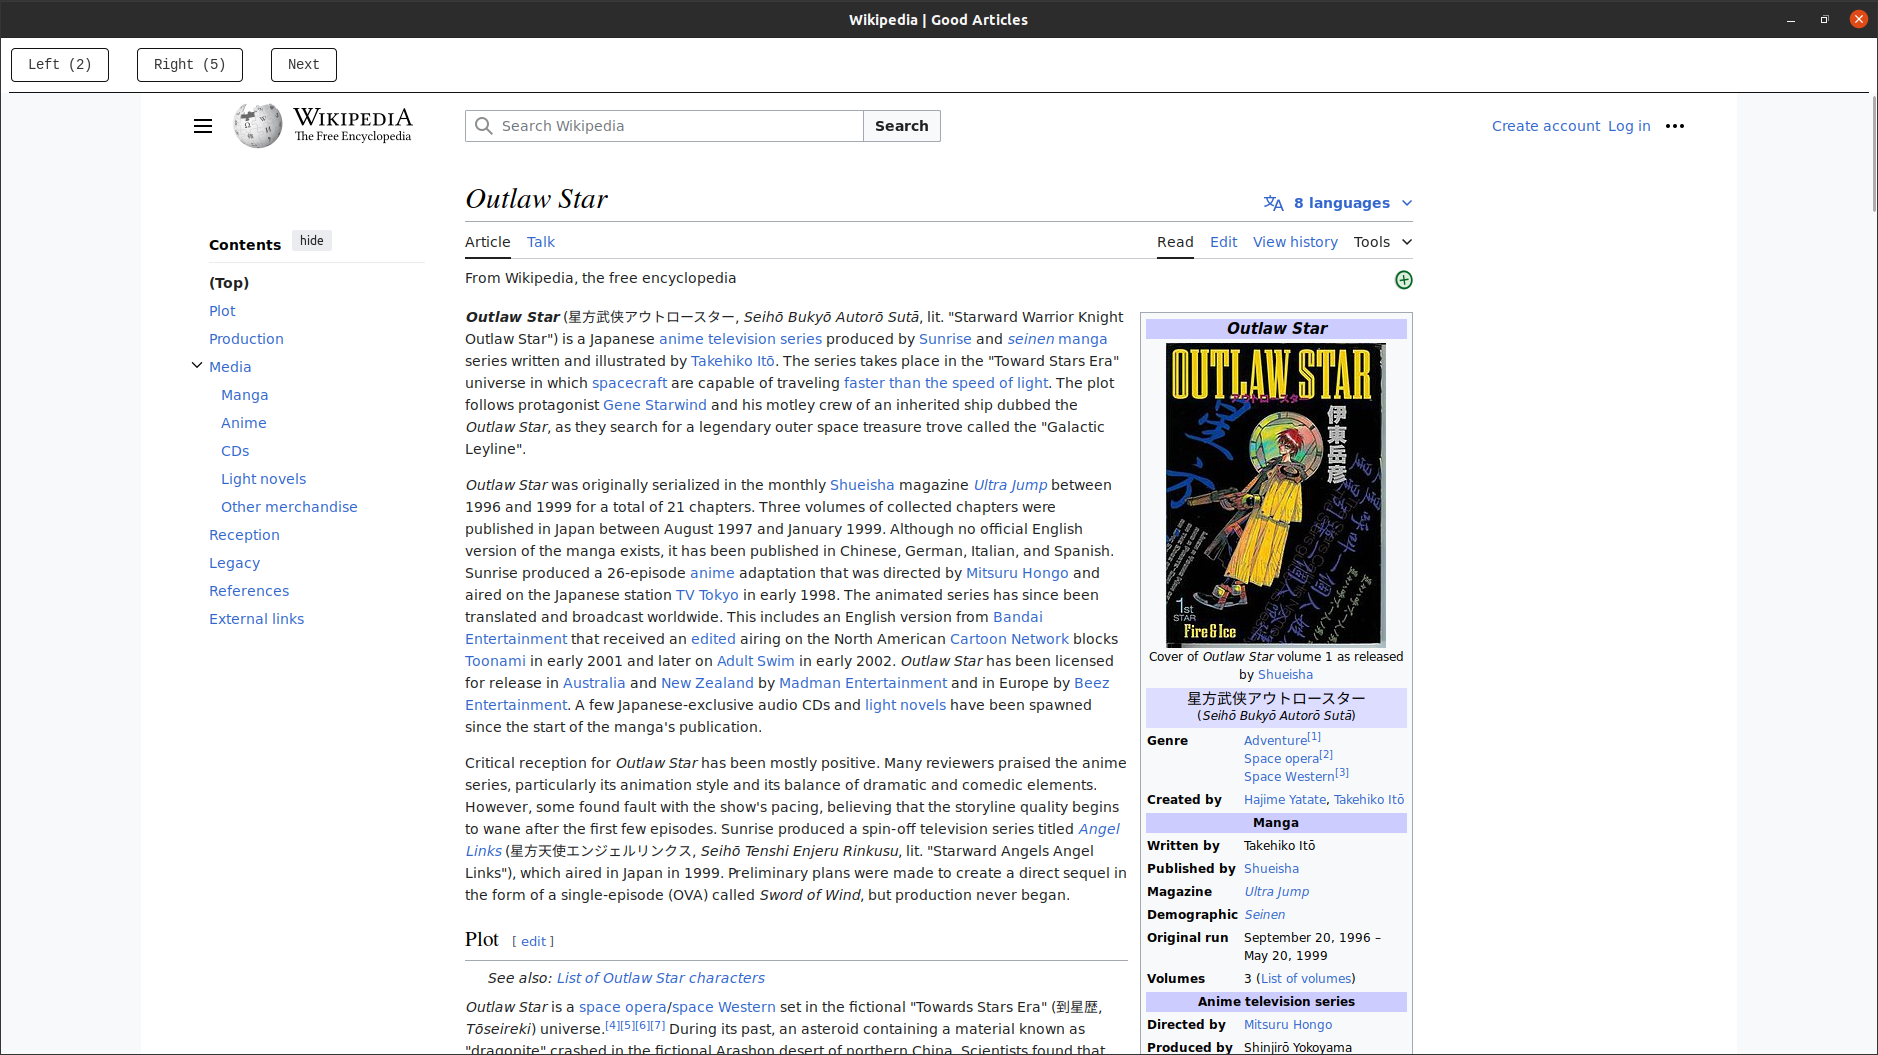
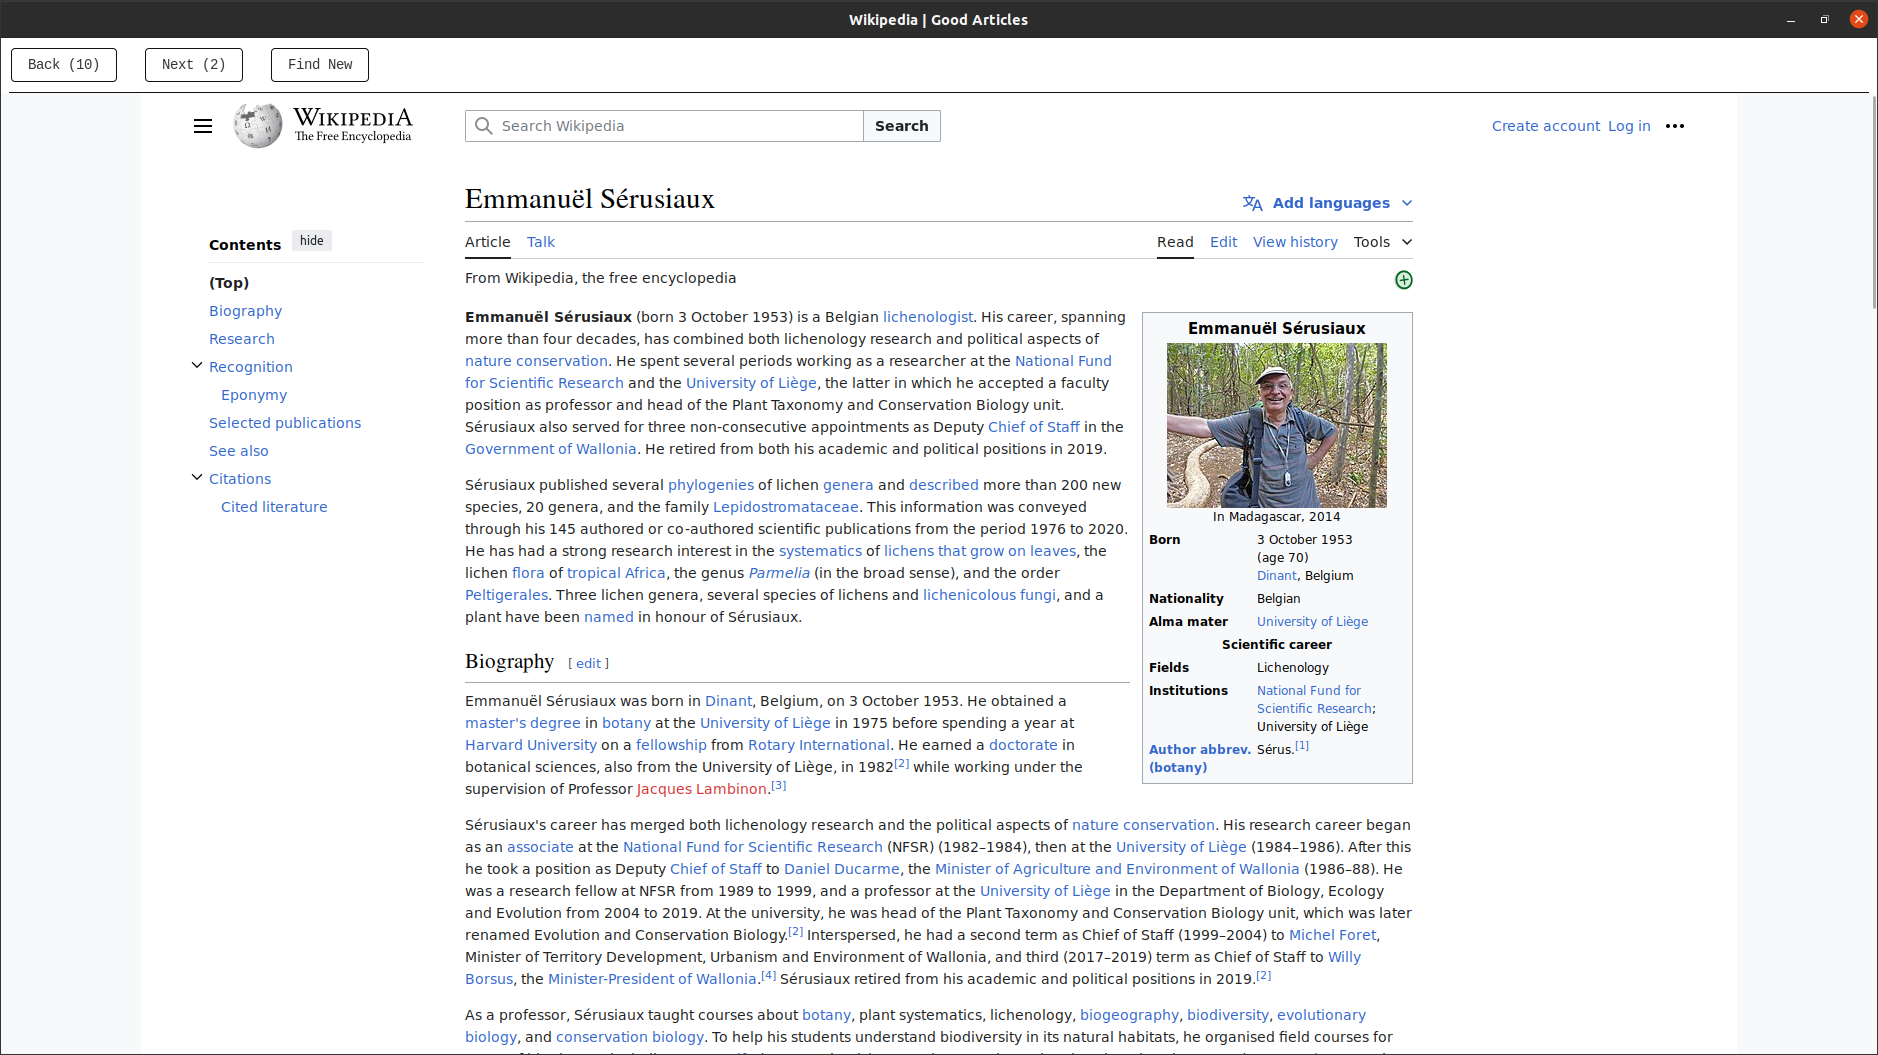
feat(ui/feedback): added loading indicator (#2)

diff --git a/src/component/bar/navigation.svelte b/src/component/bar/navigation.svelte
@@ -7,6 +7,13 @@
 	import History from '../../store/history';
 	import Pointer from '../../store/pointer';
 
+	const traverseCount = {
+		back: 0,
+		next: 0,
+	};
+
+	let isFindingNew: undefined | boolean = undefined;
+
 	const setLink = async (pointer: number) => {
 		return (await Pointer.get()).add(pointer).then(async () => {
 			return (await History.get()).at(pointer).then((link) => {
@@ -15,11 +22,6 @@
 				});
 			});
 		});
-	};
-
-	const traverseCount = {
-		left: 0,
-		right: 0,
 	};
 
 	const currentPointer = async () => {
@@ -45,11 +47,11 @@
 
 	const updateCanTraverse = async () => {
 		await currentPointerAndCount().then(({ pointer }) => {
-			traverseCount.left = pointer;
+			traverseCount.back = pointer;
 		});
 
 		await currentPointerAndCount().then(({ count, pointer }) => {
-			traverseCount.right = count - 1 - pointer;
+			traverseCount.next = count - 1 - pointer;
 		});
 	};
 
@@ -74,33 +76,37 @@
 			await currentPointer().then(setLink).then(updateCanTraverse);
 		}
 	});
+
+	export { isFindingNew };
 </script>
 
 <div id="container">
 	<div id="buttons">
 		<button
-			disabled={isFalsy(traverseCount.left)}
+			disabled={isFalsy(traverseCount.back)}
 			on:click={() => {
 				currentPointer().then((pointer) => {
-					if (traverseCount.left) {
+					if (traverseCount.back) {
 						setLink(pointer - 1).then(updateCanTraverse);
 					}
 				});
-			}}>Left ({traverseCount.left})</button
+			}}>Back ({traverseCount.back})</button
 		>
 		<button
-			disabled={isFalsy(traverseCount.right)}
+			disabled={isFalsy(traverseCount.next)}
 			on:click={() => {
 				currentPointer().then((pointer) => {
-					if (traverseCount.right) {
+					if (traverseCount.next) {
 						setLink(pointer + 1).then(updateCanTraverse);
 					}
 				});
 			}}
-			>Right ({traverseCount.right})
+			>Next ({traverseCount.next})
 		</button>
 		<button
 			on:click={() => {
+				isFindingNew = true;
+
 				State.get()
 					.updateLink()
 					.then(async (link) => {
@@ -110,11 +116,14 @@
 									return list.length - 1;
 								})
 									.then((await Pointer.get()).add)
-									.then(updateCanTraverse);
+									.then(updateCanTraverse)
+									.then(() => {
+										isFindingNew = false;
+									});
 							}
 						);
 					});
-			}}>Next</button
+			}}>Find New</button
 		>
 	</div>
 </div>

diff --git a/src/component/article.svelte b/src/component/article.svelte
@@ -1,21 +1,31 @@
 <script lang="ts">
 	import State from '../store/state';
 
-	let link = '';
+	let src = '';
+
+	let isFindingNew: undefined | boolean = undefined;
 
 	State.get()
 		.link()
 		.subscribe((value) => {
-			link = value.unwrapOrGet('');
+			src = value.unwrapOrGet('');
 		});
+
+	export { isFindingNew };
 </script>
 
-{#if link}
-	<iframe title="Wikipedia | Good Articles" src={link}>
-		Your webview doesn't support iframes
-	</iframe>
+{#if src}
+	{#if isFindingNew}
+		<div id="loader">
+			<p>Finding another good articles...</p>
+		</div>
+	{:else}
+		<iframe title="Wikipedia | Good Articles" {src}>
+			Your webview doesn't support iframes
+		</iframe>
+	{/if}
 {:else}
-	<div>
+	<div id="container">
 		<img alt="Wikipedia Logo" src="/icons/wikipedia.png" />
 		<p>Wikipedia | Good Articles</p>
 	</div>
@@ -36,7 +46,24 @@
 		overflow: hidden;
 	}
 
-	div {
+	#loader {
+		position: fixed;
+		top: 55px;
+		left: 0;
+		bottom: 0;
+		right: 0;
+		width: 100%;
+		height: 100%;
+		border: none;
+		margin: 0;
+		padding: 0;
+		overflow: hidden;
+		display: flex;
+		justify-content: center;
+		align-items: center;
+	}
+
+	#container {
 		display: flex;
 		justify-content: center;
 		align-items: center;

diff --git a/src/app/main.svelte b/src/app/main.svelte
@@ -1,9 +1,11 @@
 <script lang="ts">
 	import Navigation from '../component/bar/navigation.svelte';
 	import Article from '../component/article.svelte';
+
+	let isFindingNew = true;
 </script>
 
 <main>
-	<Navigation />
-	<Article />
+	<Navigation bind:isFindingNew />
+	<Article bind:isFindingNew />
 </main>

diff --git a/README.md b/README.md
@@ -3,3 +3,4 @@
 Desktop App that shows random good articles with history enabled by default so I can read and store all the articles I've visited
 
 ![Application](docs/app.png 'App')
+![Loading](docs/loading.png 'Loading')
